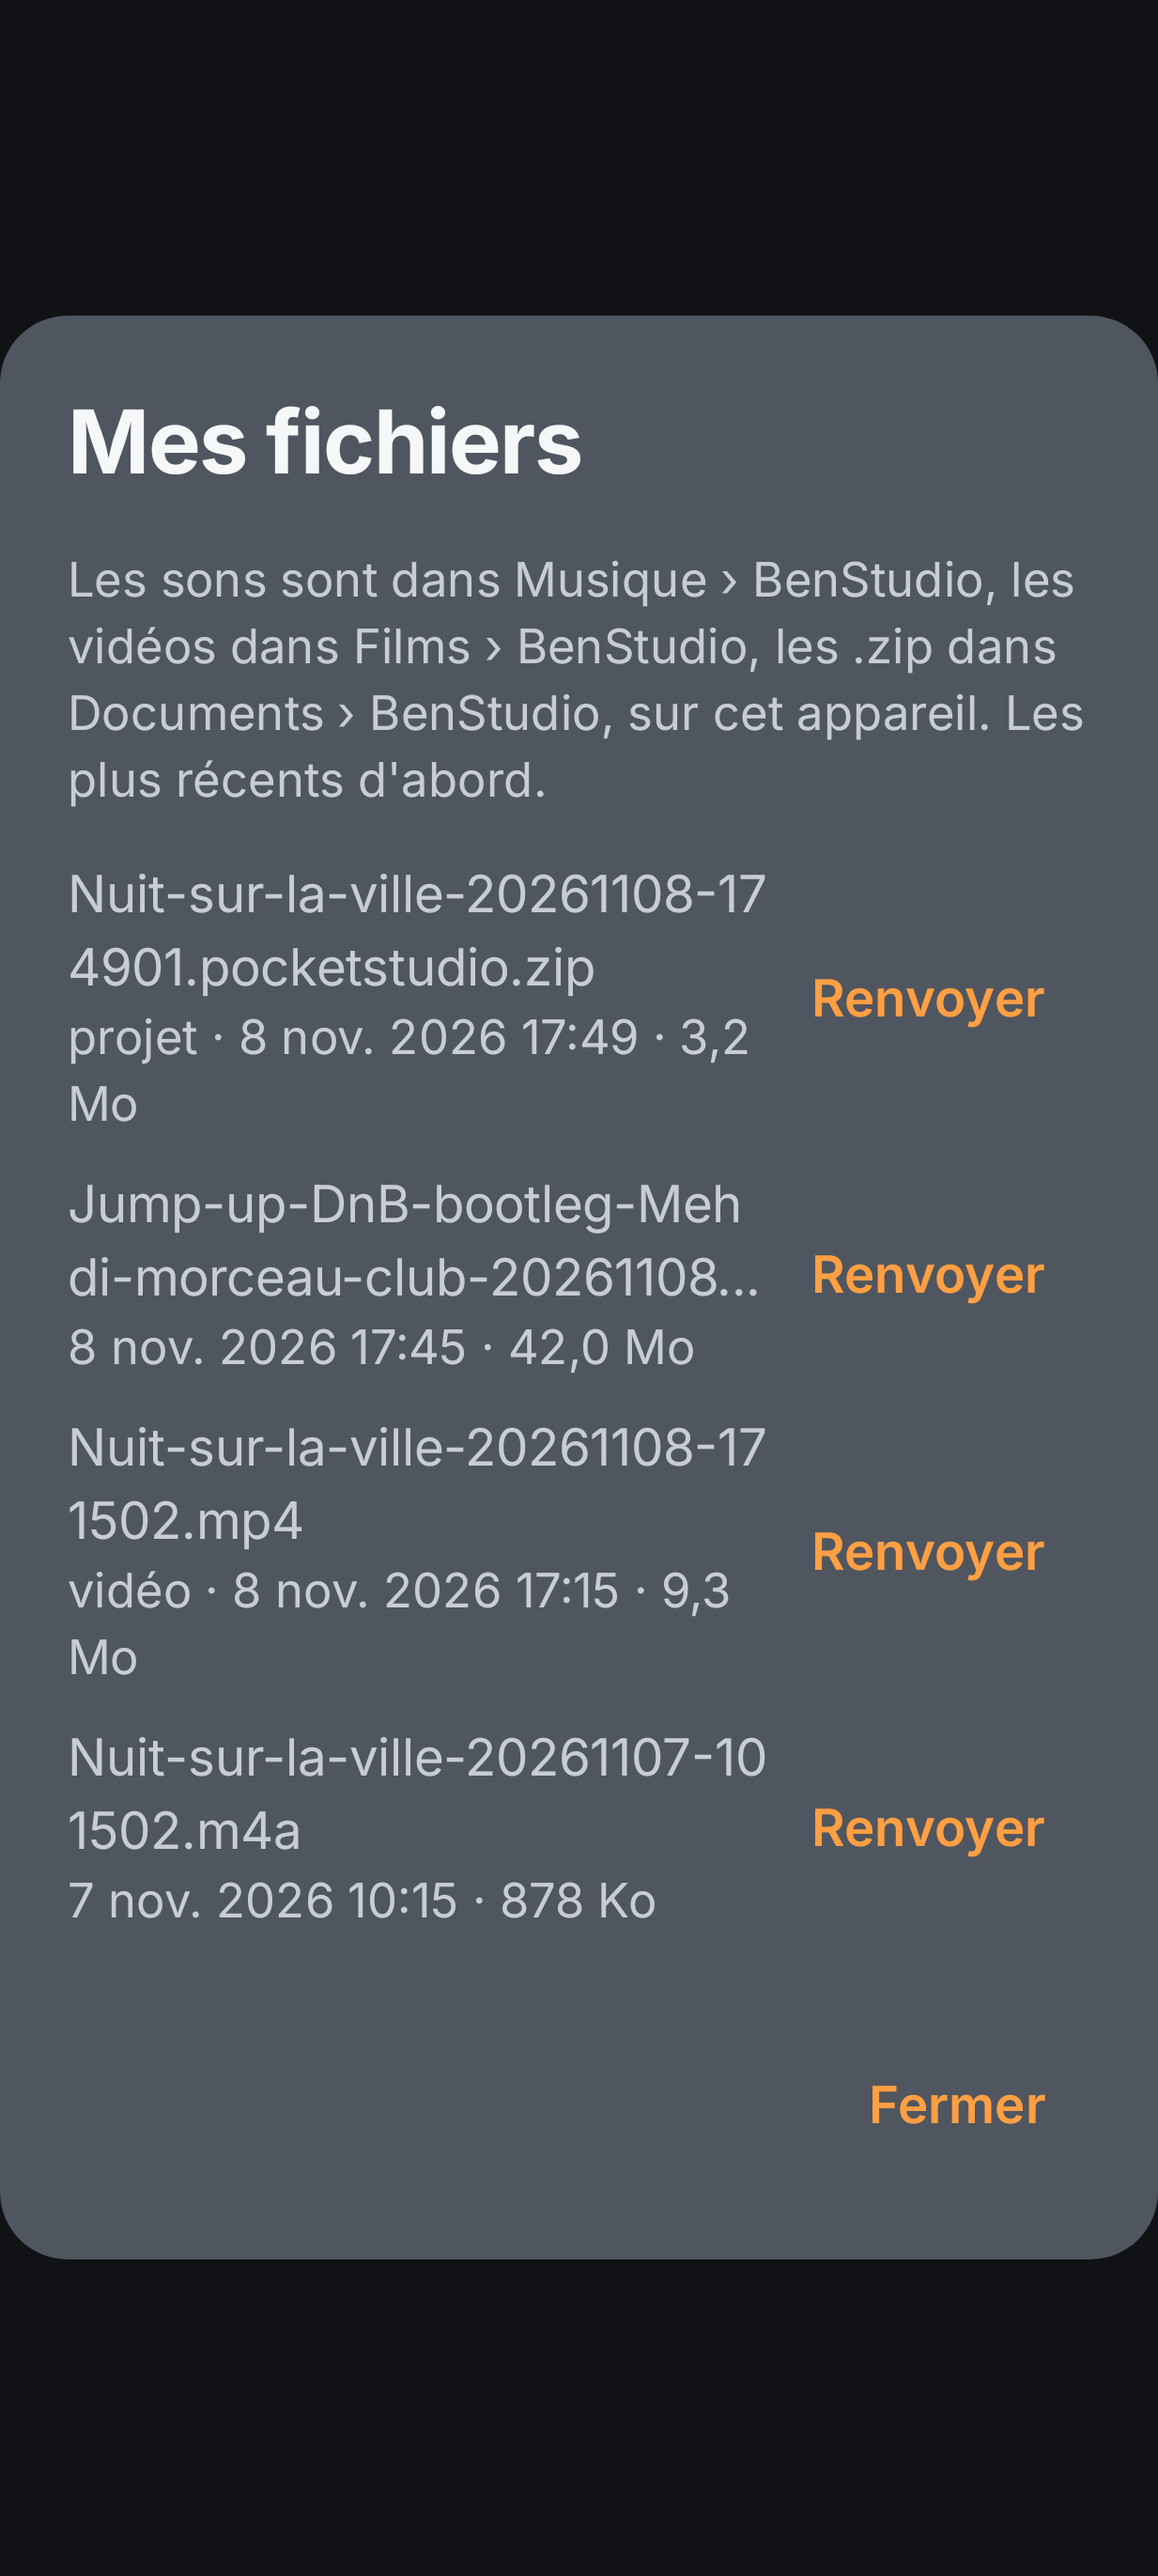
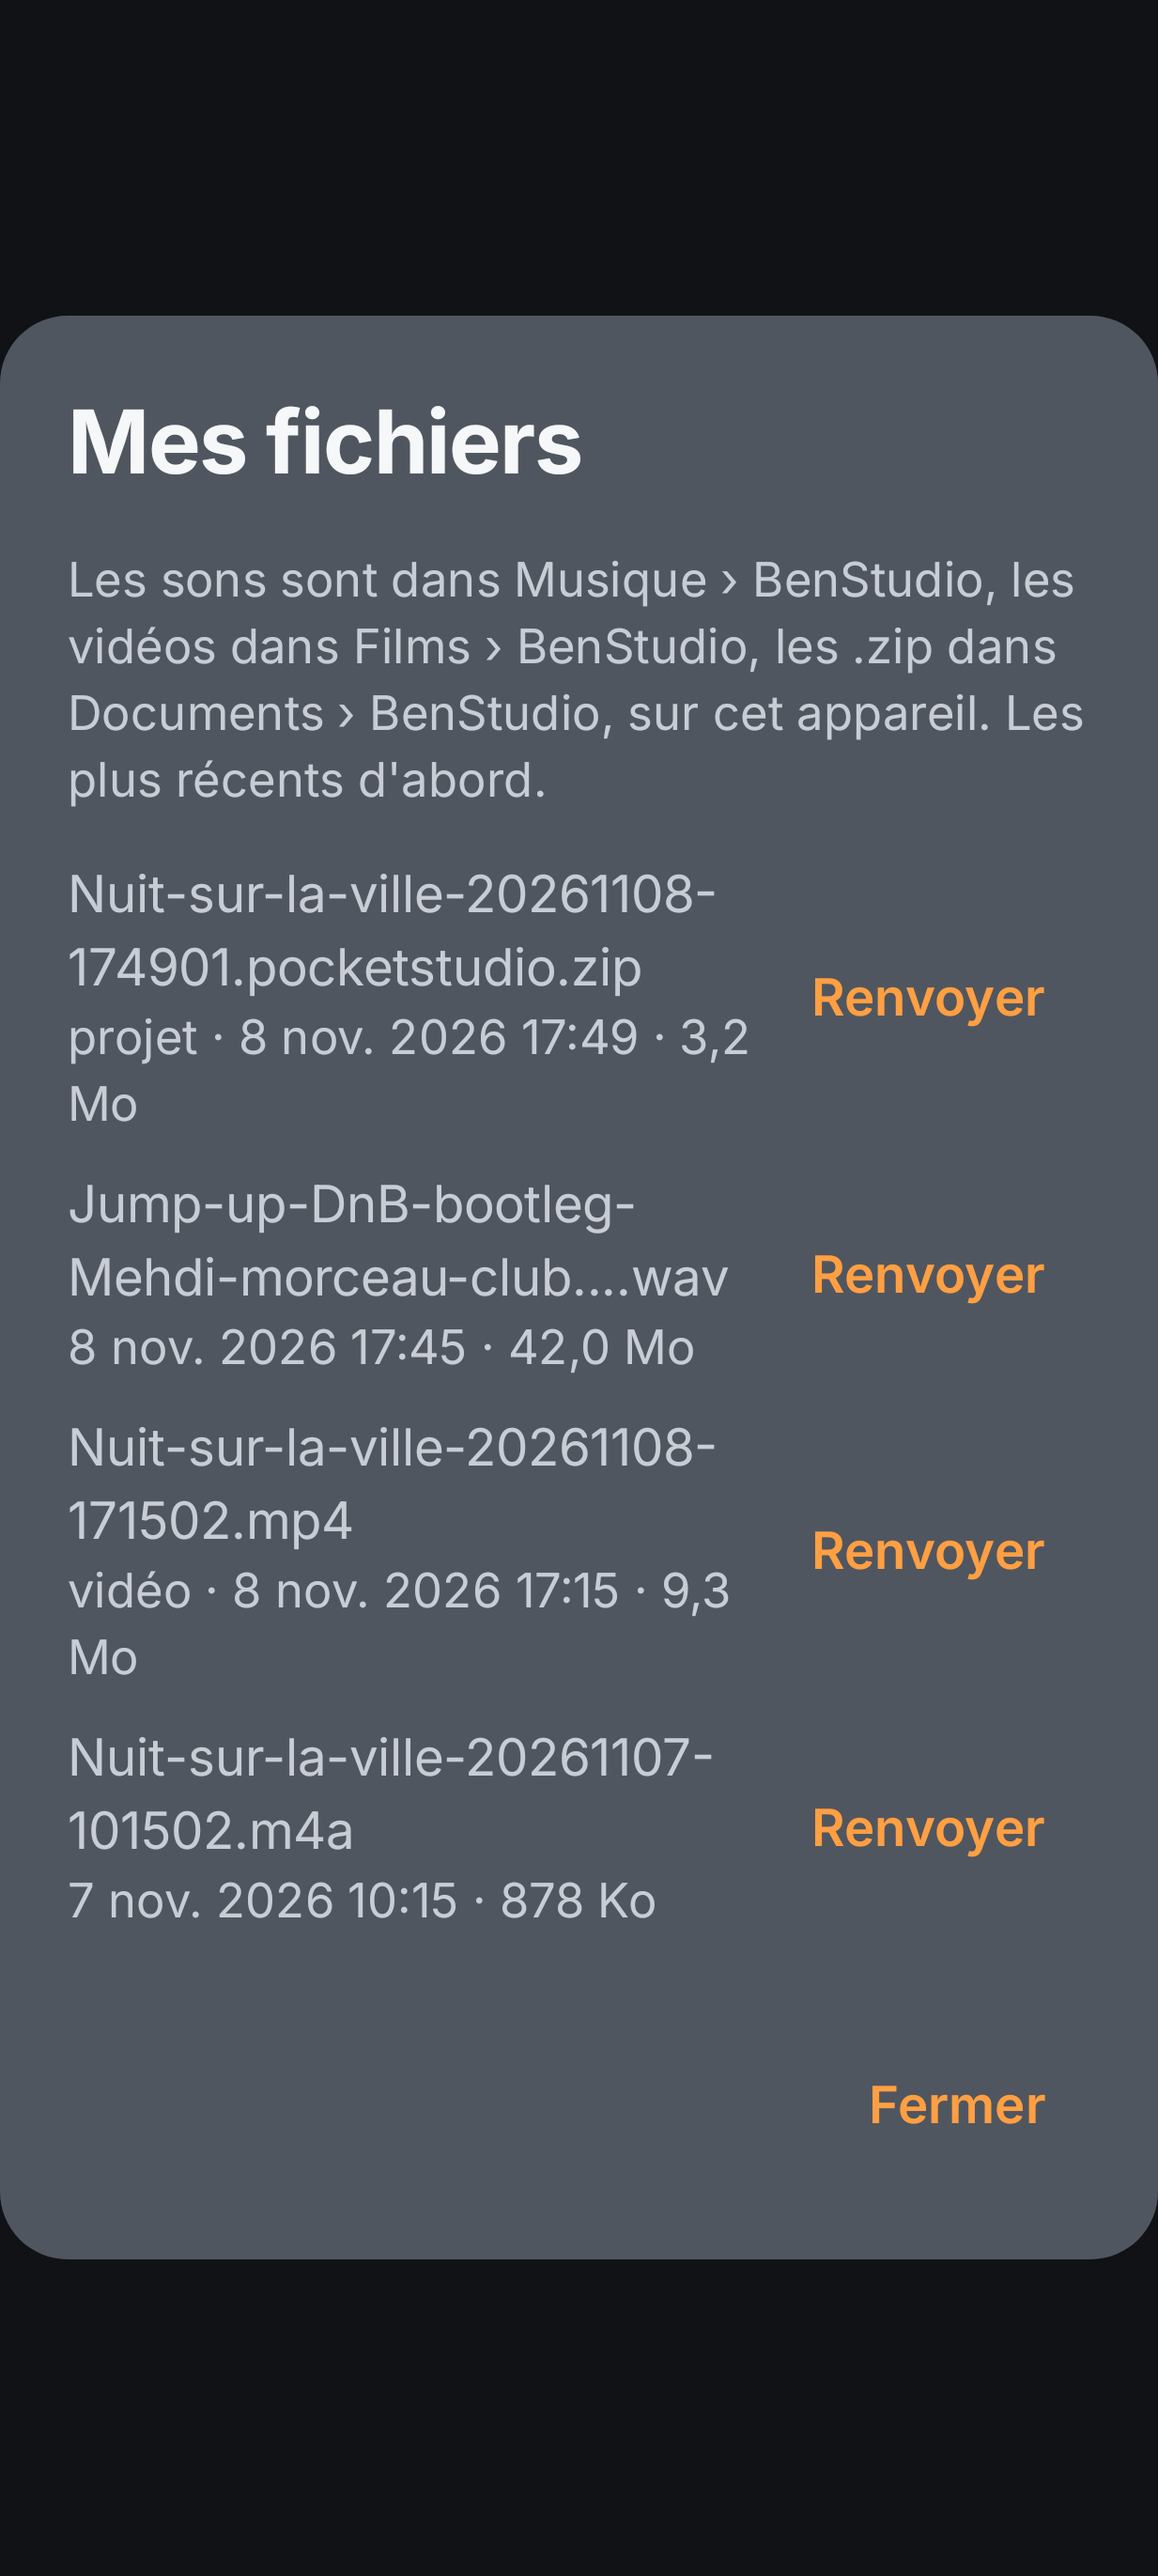
vert: a file name in my files keeps its extension in sight (R14)
FileName cuts the lines itself between the name's words (after - _ or a space, before a dot) and, when two lines are not enough, ends the second with … and the extension; each line in the name's own direction (Latin names stayed left to right in Arabic); TalkBack reads the whole name. « Renvoyer » goes under the name when less than 16 figures of room are left beside it (German, Dutch, font at 200 %). The test also finds the .mp4 apart from the .zip of the same song and checks each line's direction.

Claude-Session: https://claude.ai/code/session_014RxrDN8nkoPuu5xfhiuhh2

diff --git a/app/src/main/java/com/pocketstudio/app/export/MyExports.kt b/app/src/main/java/com/pocketstudio/app/export/MyExports.kt
@@ -5,6 +5,7 @@ import android.content.Intent
 import android.net.Uri
 import android.provider.MediaStore
 import androidx.compose.foundation.layout.Arrangement
+import androidx.compose.foundation.layout.BoxWithConstraints
 import androidx.compose.foundation.layout.Column
 import androidx.compose.foundation.layout.Row
 import androidx.compose.foundation.layout.fillMaxWidth
@@ -29,8 +30,16 @@ import androidx.compose.runtime.saveable.rememberSaveable
 import androidx.compose.runtime.setValue
 import androidx.compose.ui.Alignment
 import androidx.compose.ui.Modifier
+import androidx.compose.ui.layout.Layout
 import androidx.compose.ui.platform.LocalContext
 import androidx.compose.ui.platform.testTag
+import androidx.compose.ui.semantics.contentDescription
+import androidx.compose.ui.semantics.semantics
+import androidx.compose.ui.text.TextStyle
+import androidx.compose.ui.text.rememberTextMeasurer
+import androidx.compose.ui.text.style.TextDirection
+import androidx.compose.ui.text.style.TextOverflow
+import androidx.compose.ui.unit.Constraints
 import androidx.compose.ui.unit.dp
 import com.pocketstudio.model.i18n.tr
 import com.pocketstudio.ui.Neon
@@ -168,20 +177,111 @@ fun MyExportsDialog(
     )
 }
 
-/** The files, newest first: the name whole (two lines at most), its date and size, what it is when not a sound, « Renvoyer ». */
+/** The files, newest first: the name (two lines at most, its extension in sight), its date and size, what it is when not a sound, « Renvoyer ». */
 @Composable
 internal fun MyExportsList(list: List<MyExport>, send: (MyExport) -> Unit) {
+    // Tour 6, R14: the name's room beside « Renvoyer »: 16 figures of its font (a name's word or two a line); less (a long
+    // word for « Renvoyer », the phone's font at 200 %), « Renvoyer » goes under the name and the name gets the whole width.
+    val measurer = rememberTextMeasurer()
+    val style = MaterialTheme.typography.bodyMedium
+    val nameRoom = remember(measurer, style) { measurer.measure("0".repeat(16), style, softWrap = false, maxLines = 1).size.width }
     LazyColumn(Modifier.heightIn(max = 360.dp)) {
         items(list, key = { it.uri.toString() }) { e ->
-            Row(verticalAlignment = Alignment.CenterVertically, modifier = Modifier.fillMaxWidth().padding(vertical = 4.dp).testTag("my_export")) {
-                Column(Modifier.weight(1f)) {
-                    Text(e.name, style = MaterialTheme.typography.bodyMedium, maxLines = 2, overflow = androidx.compose.ui.text.style.TextOverflow.Ellipsis)
-                    val kind = when (e.kind) { MyExport.Kind.Sound -> null; MyExport.Kind.Video -> tr("vidéo"); MyExport.Kind.Project -> tr("projet") }
-                    Text(listOfNotNull(kind, MyExports.detail(e)).joinToString(" · "), style = MaterialTheme.typography.bodySmall,
-                        color = Neon.TextSecondary, modifier = Modifier.testTag("my_export_detail"))
-                }
-                TextButton(onClick = { send(e) }, modifier = Modifier.heightIn(min = 48.dp).testTag("my_export_send")) { Text(tr("Renvoyer")) }
+            FileRow(
+                nameRoom,
+                name = {
+                    Column {
+                        FileName(e.name, style = style)
+                        val kind = when (e.kind) { MyExport.Kind.Sound -> null; MyExport.Kind.Video -> tr("vidéo"); MyExport.Kind.Project -> tr("projet") }
+                        Text(listOfNotNull(kind, MyExports.detail(e)).joinToString(" · "), style = MaterialTheme.typography.bodySmall,
+                            color = Neon.TextSecondary, modifier = Modifier.testTag("my_export_detail"))
+                    }
+                },
+                send = { TextButton(onClick = { send(e) }, modifier = Modifier.heightIn(min = 48.dp).testTag("my_export_send")) { Text(tr("Renvoyer")) } },
+                modifier = Modifier.fillMaxWidth().padding(vertical = 4.dp).testTag("my_export"),
+            )
+        }
+    }
+}
+
+/** [name] beside [send] (centred) when [nameRoom] pixels are left to it, else above it, [send] at the end. */
+@Composable
+private fun FileRow(nameRoom: Int, name: @Composable () -> Unit, send: @Composable () -> Unit, modifier: Modifier = Modifier) {
+    Layout(contents = listOf(name, send), modifier = modifier) { (names, sends), constraints ->
+        val width = constraints.maxWidth
+        val button = sends.first().measure(constraints.copy(minWidth = 0, minHeight = 0))
+        if (width - button.width >= nameRoom) {
+            val text = names.first().measure(Constraints.fixedWidth(width - button.width))
+            val height = maxOf(text.height, button.height)
+            layout(width, height) {
+                text.placeRelative(0, (height - text.height) / 2)
+                button.placeRelative(width - button.width, (height - button.height) / 2)
+            }
+        } else {
+            val text = names.first().measure(Constraints.fixedWidth(width))
+            layout(width, text.height + button.height) {
+                text.placeRelative(0, 0)
+                button.placeRelative(width - button.width, text.height)
             }
         }
     }
 }
+
+/**
+ * Tour 6, R14 (seats A c #43, E b #16): a file's name on two lines at most, its words whole and its end in sight (.wav,
+ * .m4a, .zip, .mp4 say which file it is). Compose broke a name with no spaces anywhere (« pocketstudio.z / ip ») and its
+ * closing « … » hid the extension (« …21361… »): the lines are cut here instead, between the name's words (after « - »,
+ * « _ » or a space, before a « . »), and when two lines are not enough, the second ends with « … » and the extension
+ * (« Jump-up-DnB-bootleg- / Mehdi-morceau-club….wav »). TalkBack reads the whole name.
+ */
+@Composable
+internal fun FileName(name: String, modifier: Modifier = Modifier, style: TextStyle = MaterialTheme.typography.bodyMedium) {
+    val measurer = rememberTextMeasurer()
+    // Each line in the name's own direction (its first letter's), whatever the interface's: a Latin name's second line
+    // in Arabic read « zip….20261108 », its first « -Nuit-sur-la-ville ».
+    val own = remember(name, style) { style.copy(textDirection = if (startsRightToLeft(name)) TextDirection.Rtl else TextDirection.Ltr) }
+    BoxWithConstraints(modifier) {
+        val room = constraints.maxWidth
+        val shown = remember(name, room, own, measurer) {
+            if (!constraints.hasBoundedWidth) name
+            else fileNameLines(name) { measurer.measure(it, own, softWrap = false, maxLines = 1).size.width <= room }
+        }
+        Text(shown, style = own, maxLines = 2, overflow = TextOverflow.Ellipsis, modifier = Modifier.semantics { contentDescription = name })
+    }
+}
+
+/** [text]'s first letter that has a direction is written right to left (Arabic, Hebrew). */
+private fun startsRightToLeft(text: String): Boolean = text.firstNotNullOfOrNull { c ->
+    when (Character.getDirectionality(c)) {
+        Character.DIRECTIONALITY_LEFT_TO_RIGHT -> false
+        Character.DIRECTIONALITY_RIGHT_TO_LEFT, Character.DIRECTIONALITY_RIGHT_TO_LEFT_ARABIC -> true
+        else -> null
+    }
+} ?: false
+
+/**
+ * [name] on two lines at most, each one [fits]: whole on one line, else broken at its last break that fits (after « - »,
+ * « _ » or a space, before a « . »; between letters only when no break fits), else its second line shortened: its start,
+ * « … » and the extension.
+ */
+internal fun fileNameLines(name: String, fits: (String) -> Boolean): String {
+    if (name.isEmpty() || fits(name)) return name
+    // The longest start of [s] that fits once [then] is added: up to one of its breaks, else as many letters as fit.
+    fun start(s: String, then: String): String {
+        val breaks = (1 until s.length).filter { s[it - 1] in BREAK_AFTER || s[it] == '.' }
+        breaks.lastOrNull { fits(s.substring(0, it).trimEnd() + then) }?.let { return s.substring(0, it).trimEnd() }
+        var lo = 0
+        var hi = s.length
+        while (lo < hi) { val mid = (lo + hi + 1) / 2; if (fits(s.substring(0, mid) + then)) lo = mid else hi = mid - 1 }
+        return s.substring(0, lo)
+    }
+    val first = start(name, "").ifEmpty { name.take(1) }
+    val rest = name.substring(first.length).trimStart()
+    if (fits(rest)) return "$first\n$rest"
+    val dot = rest.lastIndexOf('.')
+    val extension = if (dot > 0 && rest.length - dot in 2..6) rest.substring(dot) else ""
+    val tail = "…$extension"
+    return "$first\n" + start(rest.dropLast(extension.length), tail).trimEnd(*BREAK_AFTER.toCharArray()) + tail
+}
+
+private const val BREAK_AFTER = "-_ "

diff --git a/app/src/test/java/com/pocketstudio/app/export/MyFilesNamesTest.kt b/app/src/test/java/com/pocketstudio/app/export/MyFilesNamesTest.kt
@@ -98,7 +98,7 @@ class MyFilesNamesTest(private val code: String, private val scale: String, priv
             return flat.commonPrefixWith(name).length + flat.commonSuffixWith(name).length
         }
         val node = compose.onAllNodes(hasAnyAncestor(hasTestTag("my_export")), useUnmergedTree = true).fetchSemanticsNodes()
-            .filter { textOf(it).startsWith(name.take(6)) }.maxByOrNull { near(textOf(it)) } ?: return listOf("« $name »: not shown")
+            .filter { textOf(it).replace("\n", "").startsWith(name.take(4)) }.maxByOrNull { near(textOf(it)) } ?: return listOf("« $name »: not shown")
         val shown = textOf(node)
         val layout = mutableListOf<TextLayoutResult>().also { node.config[SemanticsActions.GetTextLayoutResult].action!!(it) }.first()
         val out = mutableListOf<String>()
@@ -119,6 +119,12 @@ class MyFilesNamesTest(private val code: String, private val scale: String, priv
             val at = layout.getLineStart(line)
             val before = shown.substring(0, at.coerceIn(0, shown.length)).trimEnd('\n').lastOrNull()
             if (at < shown.length && before != null && before !in "-_ " && shown[at] != '.') out += "« $shown »: a word split at line ${line + 1}"
+        }
+        // Each line in the name's own direction, whatever the interface's (here Latin names, left to right): a line's
+        // last letter at its right end (in Arabic, « -Nuit-sur-la-ville » and « zip….20261108 » were not).
+        for (line in 0..last) {
+            val end = (layout.getLineEnd(line, visibleEnd = true) - 1 downTo layout.getLineStart(line)).firstOrNull { !shown[it].isWhitespace() } ?: continue
+            if (layout.getBoundingBox(end).right < layout.getLineRight(line) - 1f) out += "« $shown »: line ${line + 1} not written left to right"
         }
         return out
     }
